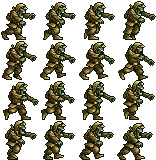
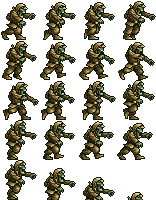
added death animation to enemies

diff --git a/src/objects/Stalker.js b/src/objects/Stalker.js
@@ -1,6 +1,7 @@
 export default class Stalker extends Phaser.Sprite {
-  constructor(game,x,y){
+  constructor(stage, game,x,y){
     super(game,x,y,'monster');
+    this.gameState = stage;
     this.game = game;
     game.add.existing(this);
     game.physics.enable(this, Phaser.Physics.ARCADE);
@@ -15,41 +16,58 @@ export default class Stalker extends Phaser.Sprite {
     this.agility = 5;
     this.state = 'idle';
 
+    this.animations.add('die', [16,17,18,19],10,false);
     this.animations.add('attack', [3,4],this.agility,true);
     this.animations.add('idle', [4],this.agility,true);
     this.animations.add('walk', [0,1,2,3,4,5,6,7,8,9,10,11,12,13,14,15],this.agility*10,true);
+
+    this.health = 100;
+    // this.events.onKilled.add(this.killed,this);
   }
 
+  // killed(){
+  //   this.destroy();
+  // }
 
-  update(state){
-    if (state){
-        if (Math.abs(state.gameObjects.player.x - this.x) < this.range &&  Math.abs(state.gameObjects.player.y - this.y) < 20){ //in range and same vertical position
-          this.direction = (state.gameObjects.player.x - this.x)/
-                          Math.abs(state.gameObjects.player.x - this.x);
+  update(){
+    if (this.alive){
+        if (Math.abs(this.gameState.gameObjects.player.x - this.x) < this.range &&  Math.abs(this.gameState.gameObjects.player.y - this.y) < 20){ //in range and same vertical position
+          this.direction = (this.gameState.gameObjects.player.x - this.x)/
+                          Math.abs(this.gameState.gameObjects.player.x - this.x);
           this.state = 'following';
         } else {
           this.state = 'idle';
         }
 
-        this.game.physics.arcade.collide(this,state.gameObjects.player,(spriteA,spriteB)=>{
-          if (Math.abs(state.gameObjects.player.y - this.y) < 20)//same vertical position
+        this.game.physics.arcade.collide(this,this.gameState.gameObjects.player,(spriteA,spriteB)=>{
+          if (Math.abs(this.gameState.gameObjects.player.y - this.y) < 20)//same vertical position
             this.state = 'attacking';
         },null,this);
-    }
 
-    switch (this.state) {
-        case 'idle':
+        if (this.health <= 1){
           this.body.velocity.x = 0;
-          this.animations.play('idle');
-          break;
-        case 'following':
-          this.scale.x = this.direction;
-          this.body.velocity.x = this.direction*10*this.agility;
-          this.animations.play('walk');
-          break;
-        case 'attacking':
-          this.animations.play('attack');
-          break;
-    }
+          this.animations.play('die');
+          this.state = 'dead';
+          let that = this;
+          setTimeout(function () {
+            that.damage(1);
+          }, 300);
+        }
+
+        switch (this.state) {
+            case 'idle':
+              this.body.velocity.x = 0;
+              this.animations.play('idle');
+              break;
+            case 'following':
+              this.scale.x = this.direction;
+              this.body.velocity.x = this.direction*10*this.agility;
+              this.animations.play('walk');
+              break;
+            case 'attacking':
+              this.animations.play('attack');
+              break;
+        }
+      }
   }
 }

diff --git a/src/objects/Zombie.js b/src/objects/Zombie.js
@@ -1,6 +1,7 @@
 export default class Zombie extends Phaser.Sprite {
-  constructor(game,x,y){
+  constructor(gamestate, game,x,y){
     super(game,x,y,'mummy');
+    this.gameState = gamestate;
     this.game = game;
     game.add.existing(this);
     game.physics.enable(this, Phaser.Physics.ARCADE);
@@ -15,35 +16,54 @@ export default class Zombie extends Phaser.Sprite {
     this.agility = 1;
     this.state = 'roaming';
 
-
+    this.animations.add('die',  [20, 21, 22, 23, 24],10,false);
     this.animations.add('attack',  [4, 5, 6 ,7, 6, 5],10,false);
-    this.animations.add('walk', [0, 1, 2, 3, 4, 5, 6, 7, 8, 9, 10, 11, 12, 13, 14, 15],this.agility*10,true);
+    this.animations.add('walk', [0, 1, 2, 3, 4, 5, 6, 7, 8, 9, 10, 11, 12, 13, 14, 15,16,17],this.agility*10,true);
+
+    this.health = 100;
+    // this.events.onKilled.add(this.killed,this);
   }
 
+  // killed(){
+  //   this.destroy();
+  // }
 
-  update(state){
-    if (state)
-      this.game.physics.arcade.collide(this,state.gameObjects['player'],(spriteA,spriteB)=>{
+  update(){
+    if (this.alive){
+      this.game.physics.arcade.collide(this,this.gameState.gameObjects.player,(spriteA,spriteB)=>{
         this.state = 'attacking';
       },null,this);
 
-    if (!this.animations.currentAnim.isPlaying && this.animations.currentAnim.name === 'attack')
-      this.state = 'roaming';
+      if (!this.animations.currentAnim.isPlaying && this.animations.currentAnim.name === 'attack'){
+        this.state = 'roaming';
+      }
 
-    switch (this.state) {
-        case 'attacking':
-          this.body.velocity.x = 0;
-          this.animations.play('attack');
-          break;
-        case 'roaming':
-          if (Math.abs(this.x - this.startingPosition) > this.range/2 && //out of the range
-            this.direction * (this.x - this.startingPosition) > 0 ) //going in the wrong direction
-                this.direction *= -1; //turn
+      if (this.health <= 1){
+        this.body.velocity.x = 0;
+        this.animations.play('die');
+        this.state = 'dead';
+        let that = this;
+        setTimeout(function () {
+          that.damage(1);
+        }, 300);
+      }
 
-          this.scale.x = this.direction;
-          this.body.velocity.x = this.direction*10*this.agility;
-          this.animations.play('walk');
-          break;
+      switch (this.state) {
+          case 'attacking':
+            this.body.velocity.x = 0;
+            this.animations.play('attack');
+            break;
+          case 'roaming':
+            if (Math.abs(this.x - this.startingPosition) > this.range/2 && //out of the range
+              this.direction * (this.x - this.startingPosition) > 0 ) //going in the wrong direction
+                  this.direction *= -1; //turn
+
+            this.scale.x = this.direction;
+            this.body.velocity.x = this.direction*10*this.agility;
+            this.animations.play('walk');
+            break;
+      }
+
     }
   }
 }

diff --git a/src/states/GameState.js b/src/states/GameState.js
@@ -16,8 +16,8 @@ class GameState extends Phaser.State {
     this.game.load.image('starSmall', 'assets/star.png');
     this.game.load.image('starBig', 'assets/star2.png');
     this.game.load.image('background', 'assets/background2.png');
-    this.game.load.spritesheet('mummy', 'assets/mummy37x45.png', 37, 45, 18);
-    this.game.load.spritesheet('monster', 'assets/monster39x40.png', 39, 40, 16);
+    this.game.load.spritesheet('mummy', 'assets/mummy37x45.png', 37, 45, 25);
+    this.game.load.spritesheet('monster', 'assets/monster39x40.png', 39, 40, 20);
   }
 
 	create() {
@@ -79,6 +79,7 @@ class GameState extends Phaser.State {
 	}
 
   loadEnemies(game, map) {
+    const game_state = this;
     const tileW = this.map.tileWidth;
     const tileH = this.map.tileHeight;
     const {tileproperties} = this.map.addTilesetImage('min');
@@ -94,14 +95,15 @@ class GameState extends Phaser.State {
             console.log('creating', key);
             switch (tile.properties.type) {
               case 'mummy':
-                go[key] = new Zombie(game, colIdx * tileW, (rowIdx - 1) * tileH);
+                go[key] = new Zombie(game_state, game, colIdx * tileW, (rowIdx - 1) * tileH);
                 break;
               case 'stalker':
-                go[key] = new Stalker(game, colIdx * tileW, (rowIdx - 1) * tileH);
+                go[key] = new Stalker(game_state, game, colIdx * tileW, (rowIdx - 1) * tileH);
                 break;
               default:
                 break;
             }
+            go[key]._key = key;
           }
         }
       });
@@ -155,13 +157,17 @@ class GameState extends Phaser.State {
     })
 
     Object.keys(this.gameObjects).forEach((key)=>{
+      //console.log('update', key, that.gameObjects[key]);
+      if (that.gameObjects[key].__cane) {
+        console.log(key, that.gameObjects[key]);
+      }
       game.physics.arcade.collide(that.gameObjects[key], that.layer);
       sensors.forEach(({doorSprite, hit}) => {
         if (!hit) {
           game.physics.arcade.collide(that.gameObjects[key], doorSprite);
         }
       });
-      that.gameObjects[key].update(that);
+      //that.gameObjects[key].update(that);
     });
   }
 

diff --git a/src/objects/Player.js b/src/objects/Player.js
@@ -41,6 +41,7 @@ export default class Player extends Phaser.Sprite {
   update(){
     const almostGrounded = this.body.onFloor() || 0.2 > Math.abs(this.body.deltaY());
     let canJump = almostGrounded && this.game.time.now > this.jumpTimer
+
     this.body.velocity.x = 0;
     const cursors = this.cursors;
     const jumpButton = this.jumpButton;
